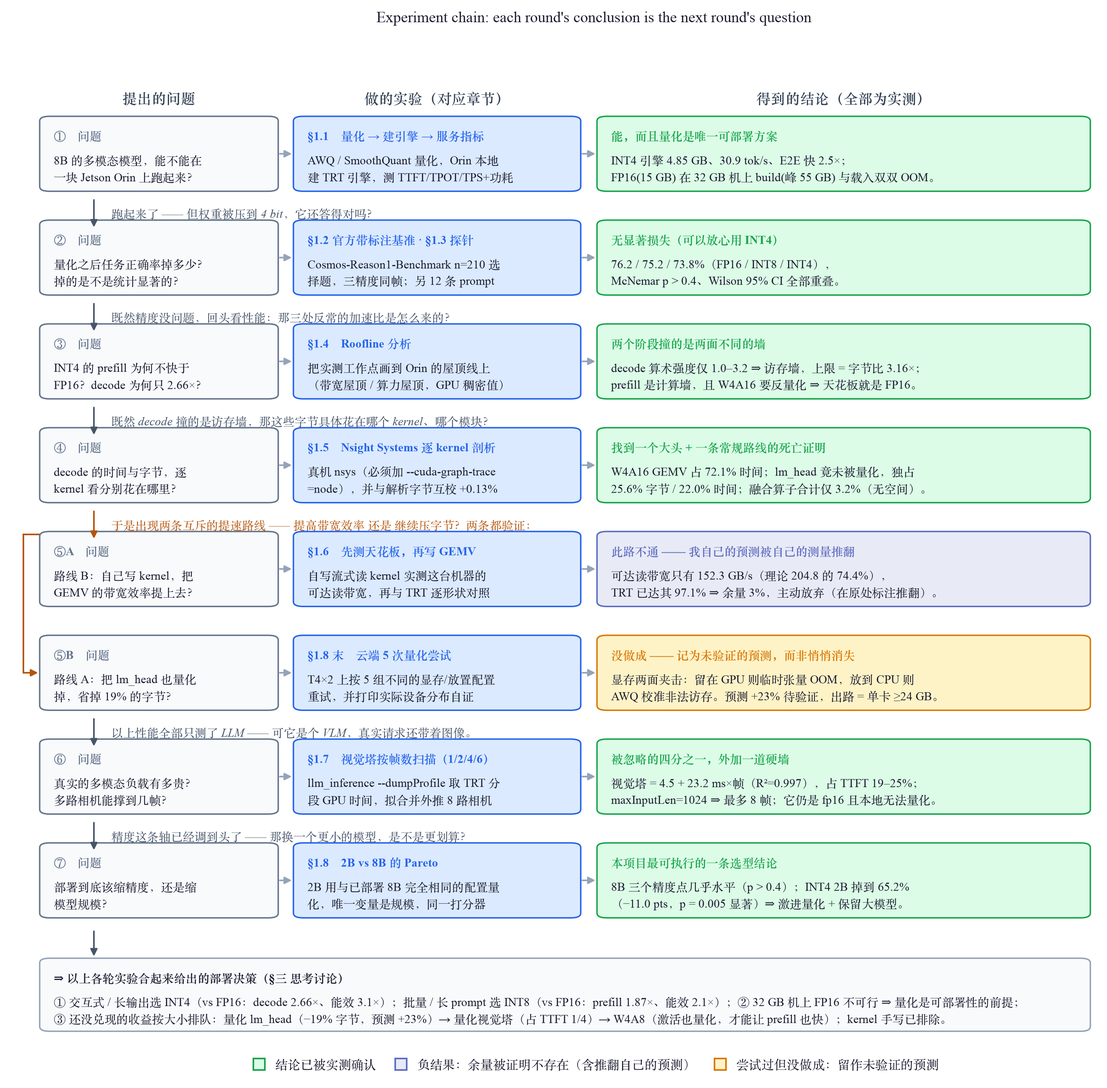
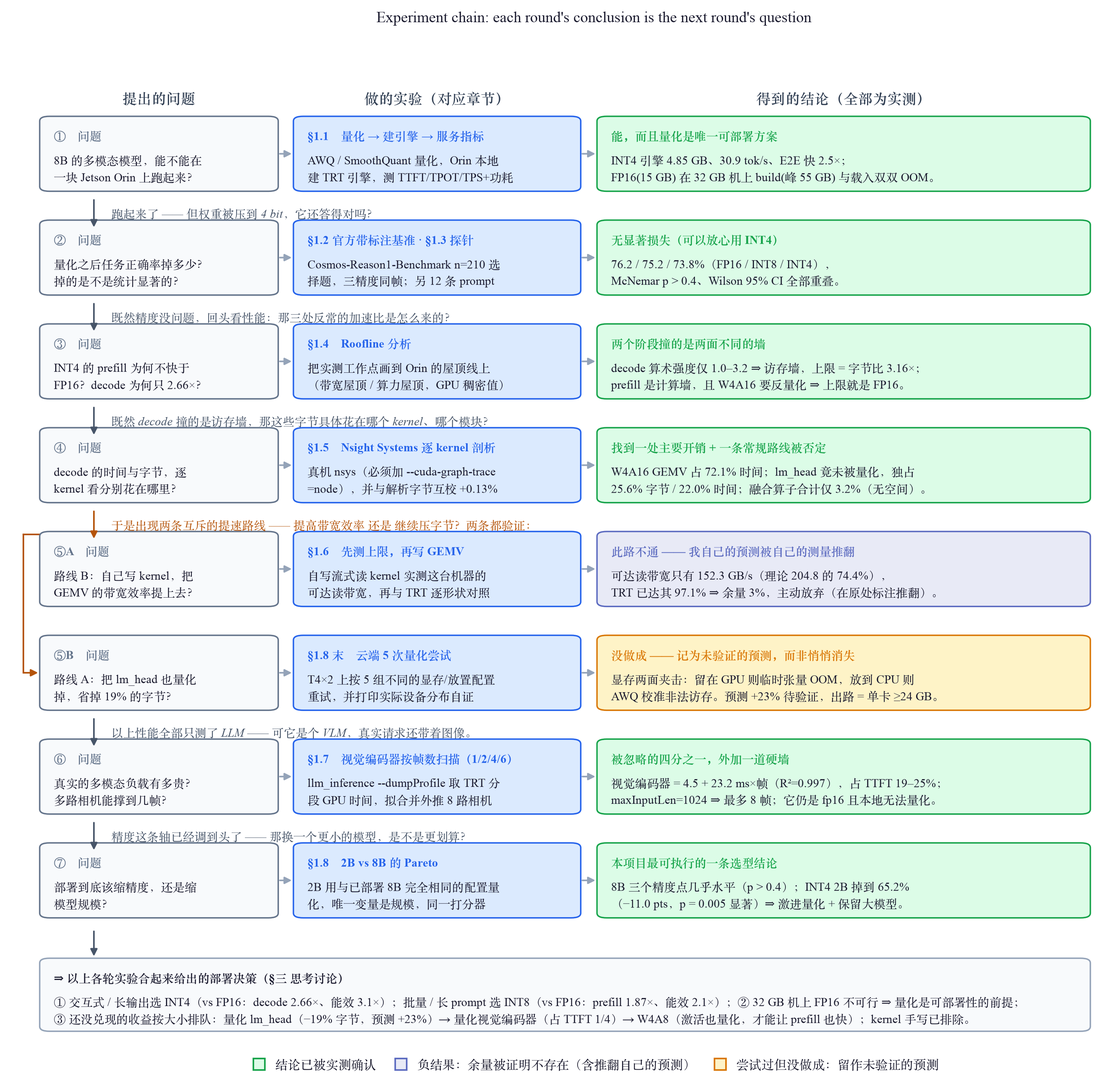
deploy: terminology pass (视觉编码器, 上限, 精度损失) + bilingual glossary

diff --git a/index.html b/index.html
@@ -97,7 +97,7 @@ footer a{color:var(--accent)}
   <figure><img src="figures/arch_upstream.png" alt="上游发布的 Cosmos-Reason2-8B 结构与我们部署形态的对应"><figcaption><b>图 1 · 上游发布的模型结构（左）与我们部署后的形态（右）—— 圈号一一对应</b><br><b>读法</b>：左栏 = <strong>Cosmos-Reason2-8B 按其作者的口径</strong>（NVIDIA 在 <strong>Qwen3-VL-8B-Instruct</strong> 上后训练）：视觉编码器 ViT（<code>qwen3_vl_vision</code>，27 层 · d=1152 · 16 头 · FFN 4304 · patch 16×16）→ 2×2 merge → 与文字 embedding 拼成一条序列 → 文本解码器（<code>qwen3_vl_text</code>，36 层 · d=4096 · GQA 32/8 · FFN 12288 · mRoPE [24,20,20]）→ lm_head；右栏 = 同一模型在 Orin 上被拆成的<strong>实际部件</strong>（主机侧前处理 / visual.engine / 运行时 kernel + 独立词嵌入权重 / llm.engine）<br><b>图例</b>：<span style="color:#2563eb"><strong>蓝 = 我们量化的部分</strong></span>；<span style="color:#d97706"><strong>琥珀 = 保持 fp16 的视觉部分</strong></span>；灰 = 主机侧 / 运行时（不在 TRT 引擎内）；<span style="color:#7c3aed"><strong>紫虚线 = DeepStack 多尺度视觉注入</strong></span>；①–⑥ 把两栏的同一模块系在一起<br><b>结果</b>：参数账自校验 <strong>0.58 B（视觉）+ 6.95 B（36 层）+ 0.62 B（词嵌入）+ 0.62 B（lm_head）= 8.77 B</strong>，与 NVIDIA 公布的 checkpoint 规模一致；部署造成三处结构差异：<strong>① 36×7 个线性层被量化</strong>（视觉编码器与 lm_head 仍 fp16）、<strong>② 词嵌入查表被搬出 TRT 图</strong>成为独立权重 + 一个 kernel、<strong>③ 引擎构建时把输入长度钉死在 1024</strong>（模型本身支持 262144）<br><b>分析</b>：这张图解释了两个最容易被误解的点。一是 <strong>DeepStack</strong>——视觉信息不只在序列开头进入模型，ViT 第 8/16/24 层的 3 路中间特征还会<strong>直接注入解码器前 3 层</strong>，所以视觉编码器不是"可插拔前端"，它与解码器是耦合的。二是<strong>"词嵌入不在 LLM 引擎内"的确切含义</strong>：不是没有词嵌入，而是查表被移出 TensorRT 图，变成运行时的一次 GPU gather（<code>embeddingLookupWithImageInsertion</code>）+ 一个 1.245 GB 的独立权重文件；<strong>llm.engine 的输入是拼好的向量 <code>inputsEmbeds</code>，不是 token id</strong>——正因如此才能把视觉向量写进文字 embedding 的空位。</figcaption></figure>
   <figure><img src="figures/preprocess_chain.png" alt="从 benchmark 视频到 image token 的预处理链与 prompt 长度预算"><figcaption><b>图 2 · 从视频到 image token：实测预处理链，与 prompt 长度对引擎硬上限的占用</b><br><b>上半（读法）</b>：六个步骤从左到右 = benchmark 视频 → <strong>我们</strong>均匀采 6 帧并把长边缩到 448 px → 实测出现两种帧尺寸 → <code>Qwen2VLImageProcessor</code> 把边长缩到 <strong>32 的整数倍</strong> → 归一化并切 16×16 patch → ViT 编码后 2×2 merge 成 token；<span style="color:#2563eb"><strong>蓝字 = 448×252 的 170 段</strong></span>，<span style="color:#f59e0b"><strong>橙字 = 448×358 的 40 段</strong></span><br><b>下半</b>：横轴 = 一次请求的 prompt 长度（token；深色 = 图像 token，浅灰 = 问题与对话模板），竖轴 = 三种实测情形，红虚线 = 引擎构建时钉死的 <code>maxInputLen = 1024</code><br><b>结果</b>：真正进入网络的<strong>不是 448×252，而是 448×256</strong>（28×16=448 个 patch → <strong>112 token/帧</strong>）；40 段 5:4 视频是 448×352（616 patch → <strong>154 token/帧</strong>）。规则是 <strong>token 数 =(W/32)×(H/32)</strong>，每 token 覆盖 32×32 px。实测 prompt 长度 <strong>759 / 951 / 1015</strong>，最长的一题（n=210 的第 94 题）<strong>距 1024 只剩 9 个 token</strong><br><b>分析</b>：<strong>这修正了此前"每帧 112 token ⇒ 最多 8 帧"的过度概括</strong>——112 只对 16:9 的帧成立，5:4 的帧是 154，<strong>6 帧就已经把引擎占到 99.1%</strong>，第 7 帧必然溢出。基准日志无截断告警、210 条全部返回，故已发布的正确率不受影响，但余量只有 0.9%，属于事后才发现的风险；要放更多帧必须用更大的 <code>maxInputLen</code> 重建引擎。另外注意口径：<strong>性能基准（§1.1、§1.4–1.6）一张图都不带</strong>，走的是纯文字路径，不经视觉编码器。</figcaption></figure>
   <figure><img src="figures/model_arch.png" alt="Cosmos-Reason2-8B 结构与各实验作用的模块"><figcaption><b>图 3 · 模型结构（实测 config）与每个实验作用的模块</b><br><b>左栏（读法）</b>：Cosmos-Reason2-8B 的真实结构，自上而下 = 两路输入 → 视觉编码器 ViT / 分词器+词嵌入 → 36 层 decoder → 输出层 lm_head → 采样回灌；框内为实测形状（36 层 · hidden 4096 · GQA 32/8 头 · FFN 12288 · vocab 151936）；紫虚线是 <strong>DeepStack</strong>（ViT 第 8/16/24 层的 3 路特征注入 decoder 前 3 层，见图 1），预处理与 token 数见图 2<br><b>右栏 A–F（图例）</b>：每个字母把一个模块连到"我们在哪一节对它做了什么、实测占多少"；填色含义 = <span style="color:#2563eb"><strong>蓝：本项目量化的模块</strong></span> / <span style="color:#d97706"><strong>琥珀：仍是 fp16，已定位的优化点</strong></span> / 灰：无权重或不在 LLM 引擎内<br><b>结果</b>：被量化的只有 decoder 里 36×7 个线性层 = <strong>6.95 B 参数（全部矩阵乘参数的 91.8%）</strong>，它们在 decode 占 <strong>72.1% 的时间</strong>；<strong>lm_head 只占 8.2% 的参数，却占 25.6% 的字节、22.0% 的时间，且完全未被量化</strong>；视觉编码器（≈0.58 B，fp16）占 TTFT 19–25%；RMSNorm / RoPE / SwiGLU 已被 TensorRT 融合，合计仅 3.2%<br><b>分析</b>：这张图回答"优化为什么只能往这两处去"。右下角的<strong>字节账</strong>是关键：decode 每生成 1 个 token 就要把整个引擎搬一遍，4.853 GB ÷ 实测 33.1 ms = 146.5 GB/s，<strong>已达这台机器可达带宽（152.3 GB/s）的 96%</strong> ⇒ 搬运效率已无余量，剩下的收益只能来自"<strong>让要搬的字节变少</strong>"，即图中两块琥珀色（lm_head、视觉编码器），而不是重写 kernel（§1.6 已实测证否）。</figcaption></figure>
-  <figure><img src="figures/experiment_logic.png" alt="实验之间的逻辑链：上一轮结论 → 下一轮问题"><figcaption><b>图 4 · 实验逻辑链：每一轮的结论就是下一轮的问题</b><br><b>读法</b>：一行 = 一轮实验，左→右 = <strong>提出的问题 → 做的实验（对应章节）→ 实测结论</strong>；两行之间的<strong>斜体字</strong>是这条链的关键——上一轮的结论具体逼出了什么新问题<br><b>图例</b>：<span style="color:#16a34a"><strong>绿 = 结论已被实测确认</strong></span>；<span style="color:#5c6bc0"><strong>蓝紫 = 负结果（余量被证明不存在）</strong></span>；<span style="color:#d97706"><strong>琥珀 = 尝试过但没做成，留作未验证的预测</strong></span>；⑤A / ⑤B 是同一处发现分出的<strong>两条互斥路线</strong>，故并列<br><b>结果</b>：七轮串成一条链——能不能跑(§1.1) → 压了还准不准(§1.2–1.3) → 加速比为何是这个数(§1.4) → 字节花在哪个 kernel(§1.5) → 两条提速路线各自的下场(§1.6 / lm_head) → 真实多模态负载多贵(§1.7) → 该缩精度还是缩模型(§1.8)，最后合成一条部署决策<br><b>分析</b>：链条里有两次转向完全是被数据逼出来的：§1.4 判定 decode 撞的是<strong>访存墙</strong>，才使 §1.5 的逐 kernel 字节归因成为必做项；而 §1.5 量出 GEMV 只有理论峰值带宽的 72%，我据此预测手写 kernel 能 +10%——§1.6 先测出真实天花板后，<strong>这个预测被我自己的测量推翻，并保留在原处</strong>。也正因为 kernel 这条路被关掉，两个尚未兑现的收益（量化 lm_head、量化视觉编码器）才有了明确的优先级。</figcaption></figure>
+  <figure><img src="figures/experiment_logic.png" alt="实验之间的逻辑链：上一轮结论 → 下一轮问题"><figcaption><b>图 4 · 实验逻辑链：每一轮的结论就是下一轮的问题</b><br><b>读法</b>：一行 = 一轮实验，左→右 = <strong>提出的问题 → 做的实验（对应章节）→ 实测结论</strong>；两行之间的<strong>斜体字</strong>是这条链的关键——上一轮的结论具体逼出了什么新问题<br><b>图例</b>：<span style="color:#16a34a"><strong>绿 = 结论已被实测确认</strong></span>；<span style="color:#5c6bc0"><strong>蓝紫 = 负结果（余量被证明不存在）</strong></span>；<span style="color:#d97706"><strong>琥珀 = 尝试过但没做成，留作未验证的预测</strong></span>；⑤A / ⑤B 是同一处发现分出的<strong>两条互斥路线</strong>，故并列<br><b>结果</b>：七轮串成一条链——能不能跑(§1.1) → 压了还准不准(§1.2–1.3) → 加速比为何是这个数(§1.4) → 字节花在哪个 kernel(§1.5) → 两条提速路线各自的下场(§1.6 / lm_head) → 真实多模态负载多贵(§1.7) → 该缩精度还是缩模型(§1.8)，最后合成一条部署决策<br><b>分析</b>：链条里有两次转向完全是被数据逼出来的：§1.4 判定 decode 撞的是<strong>访存墙</strong>，才使 §1.5 的逐 kernel 字节归因成为必做项；而 §1.5 量出 GEMV 只有理论峰值带宽的 72%，我据此预测手写 kernel 能 +10%——§1.6 先测出真实上限后，<strong>这个预测被我自己的测量推翻，并保留在原处</strong>。也正因为 kernel 这条路被关掉，两个尚未兑现的收益（量化 lm_head、量化视觉编码器）才有了明确的优先级。</figcaption></figure>
 
   <h2>一、核心结果</h2>
   <p style="font-size:13px;color:var(--muted);margin-top:-2px">📊 图表可<strong class="zoom" style="color:var(--accent)">点击放大</strong>（再点任意处或按 Esc 还原）。不熟悉指标可先展开下面的说明，或见「方法细节」。</p>
@@ -115,6 +115,11 @@ footer a{color:var(--accent)}
       <tr><td>perplexity 困惑度</td><td>模型对一段文本的"意外程度"，越低=越符合模型预期。这里用 FP16 原模型给量化输出打分，<strong>增幅越小 = 量化越保真</strong>。</td></tr>
       <tr><td>一致前缀</td><td>贪心解码下，量化输出与 FP16 输出逐 token 相同的最长开头长度。</td></tr>
       <tr><td>W4A16 / W8A8</td><td>量化位宽记法：权重 4bit·激活 16bit（AWQ）／ 权重 8bit·激活 8bit（SmoothQuant）。</td></tr>
+      <tr><td>视觉编码器（ViT）</td><td>Vision encoder。多模态模型里把图像编码成 token 的那一半（本模型 <code>qwen3_vl_vision</code>，27 层）。LLaVA 系代码常称 <i>vision tower</i>，本文统一用"视觉编码器"，不用直译"视觉塔"。</td></tr>
+      <tr><td>DeepStack</td><td>Qwen3-VL 的多尺度视觉注入：视觉编码器第 8/16/24 层的中间特征直接注入文本解码器前 3 层（见图 1）。</td></tr>
+      <tr><td>算术强度 AI</td><td>Arithmetic intensity = 每字节数据能做多少次运算（FLOP/byte）。它决定一个阶段是被算力还是被带宽卡住（见图 12）。</td></tr>
+      <tr><td>理论峰值 vs 可达上限</td><td>前者是规格书数字（本机 DRAM 204.8 GB/s），后者是这台机器实测真能跑到的（152.3 GB/s）。<strong>算优化余量必须用后者</strong>——用前者会高估（§1.6）。</td></tr>
+      <tr><td>精度损失（pts）</td><td>正确率的百分点差（业内口语称"掉点"）。本文统一写"精度损失"，并区分它与 perplexity 的<strong>上升</strong>。</td></tr>
       <tr><td>MAXN · sm_87</td><td>MAXN = Orin 最高性能功耗模式；sm_87 = Orin GPU 的 CUDA 架构代号（Ampere）。</td></tr>
     </table>
   </details>
@@ -151,7 +156,7 @@ footer a{color:var(--accent)}
   </ul>
 
   <h3>1.2 精度：真实基准任务正确率（vs FP16）</h3>
-  <p>在<strong>官方 <a href="https://huggingface.co/datasets/nvidia/Cosmos-Reason1-Benchmark" target="_blank" style="color:var(--accent)">Cosmos-Reason1-Benchmark</a>（robovqa 子集，110 道选择题带标准答案）</strong>上实测<strong>任务正确率</strong>——具体场景 + ground truth，效果指标有实际意义。视频按 6 帧（≤448px）采样作多图，FP16/INT8/INT4 用同一批帧，掉点严格可比。</p>
+  <p>在<strong>官方 <a href="https://huggingface.co/datasets/nvidia/Cosmos-Reason1-Benchmark" target="_blank" style="color:var(--accent)">Cosmos-Reason1-Benchmark</a>（robovqa 子集，110 道选择题带标准答案）</strong>上实测<strong>任务正确率</strong>——具体场景 + ground truth，效果指标有实际意义。视频按 6 帧（≤448px）采样作多图，FP16/INT8/INT4 用同一批帧，精度损失严格可比。</p>
   <figure><img src="figures/benchmark_accuracy.png" alt="benchmark task accuracy"><figcaption><b>图 10 · 基准任务正确率（Cosmos-Reason1-Benchmark）</b><br><b>横轴</b>：三种精度（FP16 参考 / INT8 / INT4）<br><b>竖轴</b>：多选题任务正确率 %（误差棒=Wilson 95% 置信区间，绿虚线=FP16 76.2%）<br><b>结果</b>：n=210（robovqa 88.2% + 更难的 robofail 63%）FP16 76.2%、INT8 75.2%、INT4 73.8%；三者 <strong>CI 重叠、McNemar p&gt;0.4 → 差异统计不显著</strong><br><b>分析</b>：即使扩到 210、加入更难子集，量化仍<strong>无显著任务正确率损失</strong>，且分辨不出 INT4/INT8。二选一 MC 使 CI 仍 ±5.7；要更细分辨需上千样本或更难多选题（其余子集需外部视频，见边界）</figcaption></figure>
   <table>
     <caption><strong>表 3</strong>　各基准子集任务正确率与统计检验（n = 210，误差以 Wilson 95% CI、显著性以 McNemar 检验）。</caption>
@@ -164,7 +169,7 @@ footer a{color:var(--accent)}
 
   <h3>1.3 精度（辅助）：细粒度 perplexity 探针</h3>
   <p style="font-size:13.5px;color:var(--muted)">补充一个更细粒度的相对指标：12 条驾驶/推理 prompt 上，用 FP16 模型对量化输出做 teacher-forced perplexity（比 MC 正确率更敏感，能区分 INT4/INT8）。</p>
-  <figure><img src="figures/accuracy_dropoff.png" alt="quantization drop-off vs FP16"><figcaption><b>图 11 · 相对 FP16 的 perplexity 掉点与一致前缀</b><br><b>横轴</b>：左=平均 perplexity 指标，右=与 FP16 的一致性(一致前缀占比 % / 一致前缀长度 token)<br><b>竖轴</b>：左=perplexity(越低越贴近 FP16，绿虚线为 FP16 基线 1.237)，右=百分比 / token 数<br><b>结果</b>：INT4(AWQ) 掉点 +9.8% 显著小于 INT8(SmoothQuant) +18.1%，且贪心路径跟随 FP16 更久<br><b>分析</b>：INT4(W4A16 纯权重、激活保 16bit)对校准质量更鲁棒；INT8(W8A8)连激活也量化更敏感 → 掉点更大（校准集消融见"思考讨论"：域内小集反而更差，覆盖度比域匹配更关键）</figcaption></figure>
+  <figure><img src="figures/accuracy_dropoff.png" alt="quantization drop-off vs FP16"><figcaption><b>图 11 · 相对 FP16 的 perplexity 增幅与一致前缀</b><br><b>横轴</b>：左=平均 perplexity 指标，右=与 FP16 的一致性(一致前缀占比 % / 一致前缀长度 token)<br><b>竖轴</b>：左=perplexity(越低越贴近 FP16，绿虚线为 FP16 基线 1.237)，右=百分比 / token 数<br><b>结果</b>：INT4(AWQ) 精度损失 +9.8% 显著小于 INT8(SmoothQuant) +18.1%，且贪心路径跟随 FP16 更久<br><b>分析</b>：INT4(W4A16 纯权重、激活保 16bit)对校准质量更鲁棒；INT8(W8A8)连激活也量化更敏感 → 精度损失更大（校准集消融见"思考讨论"：域内小集反而更差，覆盖度比域匹配更关键）</figcaption></figure>
   <table>
     <caption><strong>表 4</strong>　各精度 perplexity 与相对 FP16 的一致前缀（12 条 prompt，teacher-forced，相对口径）。</caption>
     <tr><th>指标</th><th>FP16 参考</th><th>INT4 (AWQ)</th><th>INT8 (SmoothQuant)</th></tr>
@@ -175,10 +180,10 @@ footer a{color:var(--accent)}
 
   <h3>1.4 Roofline 分析：三个"反常点"的机理</h3>
   <p>把实测工作点画到 Orin 的 roofline 上，前面三处反常（INT4 prefill 不快于 FP16、INT8 prefill 快 1.87×、INT4 decode 只快 2.66× 而非 3.16×）就都有了定量解释，而非事后叙述。</p>
-  <figure><img src="figures/roofline.png" alt="roofline analysis"><figcaption><b>图 12 · Orin roofline 与实测工作点</b><br><b>横轴</b>：算术强度 AI（每字节的 FLOP/OP 数，对数轴）<br><b>竖轴</b>：可达吞吐（TFLOP/s 或 TOP/s，对数轴）；斜线=带宽屋顶（实线 204.8 GB/s 峰值、点线 150 GB/s 可达），平顶=算力屋顶（INT8 85 TOP/s、FP16 43 TFLOP/s，均为 GPU 稠密值）<br><b>结果</b>：decode 三精度 AI 仅 1.0–3.2，全部贴在带宽斜坡上，实测带宽 <strong>143–170 GB/s = 峰值的 70–83%</strong>；prefill 三精度 AI 512–1616，全部落在各自算力平顶下方 <strong>57–61%</strong>，且 <strong>INT4 贴的是 FP16 顶（25.5 vs FP16 26.0 TFLOP/s）而不是 INT8 顶</strong><br><b>分析</b>：脊点 = 43 TFLOP/s ÷ 204.8 GB/s ≈ <strong>210 FLOP/byte</strong>。decode 的 AI 比脊点低 67–210×⇒ 纯访存墙，故 <strong>INT4 decode 的加速上限就是字节比 15.15/4.8 = 3.16×</strong>，实测 2.66× 的缺口来自带宽效率随权重变小而下降（82.9%→69.7%，固定开销占比上升）。prefill 的 AI 远高于脊点 ⇒ 计算墙：<strong>W4A16 的天花板是 FP16 的 43 TFLOP/s 而非 INT8 的 85 TOP/s</strong>——TensorRT 权重量化会把 INT4 权重<strong>先反量化再做高精度点积</strong>（官方文档明示），所以 INT4 prefill 结构上不可能快过 FP16；INT8(W8A8) 用原生 int8 张量核、天花板翻倍，才有 1.87×。</figcaption></figure>
+  <figure><img src="figures/roofline.png" alt="roofline analysis"><figcaption><b>图 12 · Orin roofline 与实测工作点</b><br><b>横轴</b>：算术强度 AI（每字节的 FLOP/OP 数，对数轴）<br><b>竖轴</b>：可达吞吐（TFLOP/s 或 TOP/s，对数轴）；斜线=带宽屋顶（实线 204.8 GB/s 峰值、点线 150 GB/s 可达），平顶=算力屋顶（INT8 85 TOP/s、FP16 43 TFLOP/s，均为 GPU 稠密值）<br><b>结果</b>：decode 三精度 AI 仅 1.0–3.2，全部贴在带宽斜坡上，实测带宽 <strong>143–170 GB/s = 峰值的 70–83%</strong>；prefill 三精度 AI 512–1616，全部落在各自算力平顶下方 <strong>57–61%</strong>，且 <strong>INT4 贴的是 FP16 顶（25.5 vs FP16 26.0 TFLOP/s）而不是 INT8 顶</strong><br><b>分析</b>：脊点 = 43 TFLOP/s ÷ 204.8 GB/s ≈ <strong>210 FLOP/byte</strong>。decode 的 AI 比脊点低 67–210×⇒ 纯访存墙，故 <strong>INT4 decode 的加速上限就是字节比 15.15/4.8 = 3.16×</strong>，实测 2.66× 的缺口来自带宽效率随权重变小而下降（82.9%→69.7%，固定开销占比上升）。prefill 的 AI 远高于脊点 ⇒ 计算墙：<strong>W4A16 的上限是 FP16 的 43 TFLOP/s 而非 INT8 的 85 TOP/s</strong>——TensorRT 权重量化会把 INT4 权重<strong>先反量化再做高精度点积</strong>（官方文档明示），所以 INT4 prefill 结构上不可能快过 FP16；INT8(W8A8) 用原生 int8 张量核、上限翻倍，才有 1.87×。</figcaption></figure>
   <table>
-    <caption><strong>表 5</strong>　Roofline 量化核对（orin-goat，MAXN，batch = 1）。AI 与可达吞吐均由实测延迟 / 实测引擎字节数推出；算力天花板取 GPU <strong>稠密</strong>峰值（FP16 43 TFLOP/s、INT8 85 TOP/s），<strong>不含 DLA</strong>——NVIDIA 宣传的 275 TOPS 是 GPU 稀疏 170 + 双 DLA 稀疏 105，GPU-only 稠密口径仅为其 31%。</caption>
-    <tr><th>精度</th><th>Decode AI<br><span style="font-weight:400;font-size:12px">FLOP/byte</span></th><th>Decode 实测带宽<br><span style="font-weight:400;font-size:12px">（占 204.8 GB/s 峰值）</span></th><th>Prefill AI<br><span style="font-weight:400;font-size:12px">FLOP/byte</span></th><th>Prefill 实测吞吐<br><span style="font-weight:400;font-size:12px">（占所用天花板）</span></th><th>所用算力天花板</th></tr>
+    <caption><strong>表 5</strong>　Roofline 量化核对（orin-goat，MAXN，batch = 1）。AI 与可达吞吐均由实测延迟 / 实测引擎字节数推出；算力上限取 GPU <strong>稠密</strong>峰值（FP16 43 TFLOP/s、INT8 85 TOP/s），<strong>不含 DLA</strong>——NVIDIA 宣传的 275 TOPS 是 GPU 稀疏 170 + 双 DLA 稀疏 105，GPU-only 稠密口径仅为其 31%。</caption>
+    <tr><th>精度</th><th>Decode AI<br><span style="font-weight:400;font-size:12px">FLOP/byte</span></th><th>Decode 实测带宽<br><span style="font-weight:400;font-size:12px">（占 204.8 GB/s 峰值）</span></th><th>Prefill AI<br><span style="font-weight:400;font-size:12px">FLOP/byte</span></th><th>Prefill 实测吞吐<br><span style="font-weight:400;font-size:12px">（占所用上限）</span></th><th>所用算力上限</th></tr>
     <tr><td>FP16</td><td>1.00</td><td>169.7 GB/s（<strong>82.9%</strong>）</td><td>512</td><td>26.0 TFLOP/s（60.5%）</td><td>43 TFLOP/s (FP16)</td></tr>
     <tr><td>INT8 (SmoothQuant)</td><td>1.83</td><td>158.3 GB/s（77.3%）</td><td>935</td><td>48.7 TOP/s（57.3%）</td><td class="win">85 TOP/s (INT8 原生)</td></tr>
     <tr><td>INT4 (AWQ)</td><td class="win">3.16</td><td>142.8 GB/s（69.7%）</td><td>1616</td><td>25.5 TFLOP/s（59.2%）</td><td>43 TFLOP/s (<strong>反量化回 FP16</strong>)</td></tr>
@@ -193,27 +198,27 @@ footer a{color:var(--accent)}
 
   <h3>1.5 Kernel 级剖析：decode 的时间与字节都花在哪</h3>
   <p>Roofline 说 decode 是访存墙、且只跑到峰值带宽的 ~70%。那 30% 的缺口具体丢在哪个 kernel？用 Nsight Systems 在真机上逐 kernel 剖析（<strong>关键：必须加 <code>--cuda-graph-trace=node</code></strong>，否则 20 次计时迭代都在已捕获的 CUDA graph 里被折叠成一个区间，只有 3 次慢速 warmup 会被归因，得到的份额是错的）。</p>
-  <figure><img src="figures/kernel_breakdown.png" alt="kernel-level decode breakdown"><figcaption><b>图 13 · Kernel 级 decode 分解（时间与字节）</b><br><b>横轴</b>：左=每生成 token 的耗时(ms)，右=每 token 需搬运的引擎字节(GB)<br><b>竖轴</b>：左=kernel 类别，右=引擎权重按角色分类<br><b>结果</b>：<strong>W4A16 GEMV 占 72.1%</strong>(24.39 ms)、<strong>lm_head 的 fp16 GEMM 占 22.0%</strong>(7.46 ms)、attention 仅 2.7%、已融合的 elementwise 仅 3.2%；四项合计 33.8 ms ≈ 实测 TPOT 33.1 ms。字节侧：INT4 权重 3.473 GB(71.6%)、AWQ scales+zeros 0.136 GB、<strong>lm_head 仍是 fp16 未量化，占 1.245 GB = 25.6%</strong>；合计 4.853 GB 与实测引擎文件 4.847 GB 仅差 <strong>+0.13%</strong><br><b>分析</b>：三点可执行结论。① <strong>lm_head 根本没被量化</strong>——AWQ 默认跳过输出层，于是它独占四分之一的 decode 字节；而且 M=1 却被调度到 <code>tilesize64x96</code> 的 GEMM kernel（grid=(1,1583,1)，1583×96=151968≈vocab 151936，据此确认其身份）。② 各 kernel 实测有效带宽：GEMV <strong>147.9 GB/s(峰值 72.2%)</strong>、lm_head <strong>166.9 GB/s(81.5%)</strong>、整体 146.5 GB/s(71.5%)——<strong>效率最低的恰是最大头的 GEMV</strong>，这就是手写 kernel 的目标空间。③ <strong>TRT 已经把 RMSNorm/RoPE/SwiGLU 融合掉了</strong>（kernel 名 <code>__myl_AddCasMulMeaAddSqrDivMulCasMulMulMul</code> 即融合链）且 CUDA graph 已启用，故"算子融合 + 降 launch 开销"这条常规优化路线在此<strong>几乎没有空间</strong>（合计仅 3.2%）——这是个诚实的负结果。</figcaption></figure>
+  <figure><img src="figures/kernel_breakdown.png" alt="kernel-level decode breakdown"><figcaption><b>图 13 · Kernel 级 decode 分解（时间与字节）</b><br><b>横轴</b>：左=每生成 token 的耗时(ms)，右=每 token 需搬运的引擎字节(GB)<br><b>竖轴</b>：左=kernel 类别，右=引擎权重按角色分类<br><b>结果</b>：<strong>W4A16 GEMV 占 72.1%</strong>(24.39 ms)、<strong>lm_head 的 fp16 GEMM 占 22.0%</strong>(7.46 ms)、attention 仅 2.7%、已融合的 elementwise 仅 3.2%；四项合计 33.8 ms ≈ 实测 TPOT 33.1 ms。字节侧：INT4 权重 3.473 GB(71.6%)、AWQ scales+zeros 0.136 GB、<strong>lm_head 仍是 fp16 未量化，占 1.245 GB = 25.6%</strong>；合计 4.853 GB 与实测引擎文件 4.847 GB 仅差 <strong>+0.13%</strong><br><b>分析</b>：三点可执行结论。① <strong>lm_head 根本没被量化</strong>——AWQ 默认跳过输出层，于是它独占四分之一的 decode 字节；而且 M=1 却被调度到 <code>tilesize64x96</code> 的 GEMM kernel（grid=(1,1583,1)，1583×96=151968≈vocab 151936，据此确认其身份）。② 各 kernel 实测有效带宽：GEMV <strong>147.9 GB/s(峰值 72.2%)</strong>、lm_head <strong>166.9 GB/s(81.5%)</strong>、整体 146.5 GB/s(71.5%)——<strong>效率最低的恰是占比最大的 GEMV</strong>，这就是手写 kernel 的目标空间。③ <strong>TRT 已经把 RMSNorm/RoPE/SwiGLU 融合掉了</strong>（kernel 名 <code>__myl_AddCasMulMeaAddSqrDivMulCasMulMulMul</code> 即融合链）且 CUDA graph 已启用，故"算子融合 + 降 launch 开销"这条常规优化路线在此<strong>几乎没有空间</strong>（合计仅 3.2%）——这是个诚实的负结果。</figcaption></figure>
   <table>
     <caption><strong>表 6</strong>　由 kernel 剖析推出的两条优化余量（预测值，<strong>尚未实施</strong>）。字节数由实测 config 解析、并与引擎文件大小自校验到 +0.13%；有效带宽 = 解析字节 ÷ 实测 kernel 耗时（Nsight Compute 硬件计数器需 root，本机 sudo 无密码 → 不可用，故用此推算口径）。</caption>
     <tr><th>优化项</th><th>机理</th><th>字节变化</th><th>预测 TPOT / 吞吐</th><th>代价 / 风险</th></tr>
-    <tr><td><strong>A. 把 lm_head 也量化到 INT4</strong></td><td>消掉 1.245 GB 的 fp16 输出层，decode 是访存墙 ⇒ 时间近似按字节等比下降</td><td>4.853 → <strong>3.932 GB</strong>（−19%）</td><td class="win">33.1 → ≈26.8 ms<br>30.2 → <strong>≈37.3 tok/s（+23%）</strong></td><td>输出层对量化更敏感，需用 n=210 基准实测掉点</td></tr>
+    <tr><td><strong>A. 把 lm_head 也量化到 INT4</strong></td><td>消掉 1.245 GB 的 fp16 输出层，decode 是访存墙 ⇒ 时间近似按字节等比下降</td><td>4.853 → <strong>3.932 GB</strong>（−19%）</td><td class="win">33.1 → ≈26.8 ms<br>30.2 → <strong>≈37.3 tok/s（+23%）</strong></td><td>输出层对量化更敏感，需用 n=210 基准实测精度损失</td></tr>
     <tr><td>B. 手写 W4A16 GEMV 提升带宽效率<br><span style="font-size:12px;color:var(--err)"><strong>← 已被 1.6 节实测推翻</strong></span></td><td>本以为 GEMV 只到「峰值」72.2% 尚有余量；但 <strong>该口径错了</strong>——分母应为实测可达带宽 152.3 GB/s，TRT 已达其 <strong>97.1%</strong></td><td>不变</td><td><span style="color:var(--err)">原预测 +10% 不成立</span><br>真实上限 ≈ <strong>+2%</strong> 端到端</td><td>见 1.6 节：此路基本不通</td></tr>
     <tr><td>A + B 叠加</td><td>B 已被推翻 ⇒ 实际可期的就是 A</td><td>−19%</td><td class="win">≈26.8 ms（<strong>+23%</strong>，来自 A）</td><td>—</td></tr>
   </table>
 
-  <h3>1.6 手写 kernel 对照：先量"天花板"，再决定要不要优化</h3>
+  <h3>1.6 手写 kernel 对照：先量"上限"，再决定要不要优化</h3>
   <p>1.5 节给出的 B 项优化（手写 GEMV 把带宽效率从 72.2% 提上去）听起来诱人。但在动手写之前必须先回答一个问题：<strong>这台机器的 DRAM 到底能给多少带宽？</strong>「占理论峰值 72%」只有在硬件真能跑到 100% 时才意味着有 28% 可捞。于是先用自己写的纯流式读 kernel（1 GB、128-bit load）实测可达上限，再写三个版本的 W4A16 GEMV 与 TRT 对照。</p>
-  <figure><img src="figures/gemv_kernel_bench.png" alt="hand-written W4A16 GEMV vs TensorRT"><figcaption><b>图 14 · 手写 W4A16 GEMV 与 TRT 及真实带宽天花板对照</b><br><b>横轴</b>：四种真实投影形状（K×N，取自 Cosmos-Reason2-8B 的 q/k/v/o 与 gate/up/down）<br><b>竖轴</b>：实测有效带宽 (GB/s)；点线=理论峰值 204.8、<span style="color:#16a34a">绿实线=实测可达读带宽 152.3</span>、<span style="color:var(--err)">红虚线=TRT 的 147.9</span><br><b>结果</b>：<strong>这台 Orin 的实测可达读带宽只有 152.3 GB/s（理论峰值的 74.4%）</strong>，两次运行 151.7 / 152.3（差 0.4%），并与 NVIDIA 论坛社区实测的 151.7 GB/s D2D 独立吻合。<strong>据此 TRT 的 GEMV 达到可达带宽的 97.1%</strong>。我最好的手写版本（v4：x 进 shared memory + half2 融合乘加）只有 79.2 GB/s = 可达的 52.0%，<strong>比 TRT 慢 1.87×</strong><br><b>分析</b>：① <strong>我上一节的 B 项优化被自己的测量推翻</strong>——正确的分母是可达带宽而非理论峰值，TRT 的 GEMV 只剩 <strong>3.0% 余量，端到端约 +2%</strong>，手写 kernel 这条路基本不通。② 版本间的教训很典型：v2/v3 单纯把 32-bit load 换成 128-bit 反而<strong>更慢</strong>，因为真正的瓶颈不是 DRAM 而是<strong>逐元素重复读 x + 标量 int→fp16 转换</strong>；v4 把 x 放进 shared memory（一个 block 内 8 个 warp 复用）并改用 half2 后才提升 1.4–4×。③ 要再补上与 TRT 的 1.87× 差距，还需 AWQ/FasterTransformer 的 <code>lop3</code> 位技巧（直接拼出 fp16 尾数、免掉转换指令）+ 权重离线置换——而 TRT 已经做了这些。④ <strong>真正的结论：decode 的优化杠杆不在 kernel，而在字节数</strong>（即 A 项：量化 lm_head）。</figcaption></figure>
+  <figure><img src="figures/gemv_kernel_bench.png" alt="hand-written W4A16 GEMV vs TensorRT"><figcaption><b>图 14 · 手写 W4A16 GEMV 与 TRT 及真实带宽上限对照</b><br><b>横轴</b>：四种真实投影形状（K×N，取自 Cosmos-Reason2-8B 的 q/k/v/o 与 gate/up/down）<br><b>竖轴</b>：实测有效带宽 (GB/s)；点线=理论峰值 204.8、<span style="color:#16a34a">绿实线=实测可达读带宽 152.3</span>、<span style="color:var(--err)">红虚线=TRT 的 147.9</span><br><b>结果</b>：<strong>这台 Orin 的实测可达读带宽只有 152.3 GB/s（理论峰值的 74.4%）</strong>，两次运行 151.7 / 152.3（差 0.4%），并与 NVIDIA 论坛社区实测的 151.7 GB/s D2D 独立吻合。<strong>据此 TRT 的 GEMV 达到可达带宽的 97.1%</strong>。我最好的手写版本（v4：x 进 shared memory + half2 融合乘加）只有 79.2 GB/s = 可达的 52.0%，<strong>比 TRT 慢 1.87×</strong><br><b>分析</b>：① <strong>我上一节的 B 项优化被自己的测量推翻</strong>——正确的分母是可达带宽而非理论峰值，TRT 的 GEMV 只剩 <strong>3.0% 余量，端到端约 +2%</strong>，手写 kernel 这条路基本不通。② 版本间的教训很典型：v2/v3 单纯把 32-bit load 换成 128-bit 反而<strong>更慢</strong>，因为真正的瓶颈不是 DRAM 而是<strong>逐元素重复读 x + 标量 int→fp16 转换</strong>；v4 把 x 放进 shared memory（一个 block 内 8 个 warp 复用）并改用 half2 后才提升 1.4–4×。③ 要再补上与 TRT 的 1.87× 差距，还需 AWQ/FasterTransformer 的 <code>lop3</code> 位技巧（直接拼出 fp16 尾数、免掉转换指令）+ 权重离线置换——而 TRT 已经做了这些。④ <strong>真正的结论：decode 的优化杠杆不在 kernel，而在字节数</strong>（即 A 项：量化 lm_head）。</figcaption></figure>
   <div class="callout warn">
     <div class="t">方法论：这一节的价值在于"没做成"</div>
-    如果只对着理论峰值 204.8 GB/s 看，会得出"kernel 有 28% 可优化"的错误结论并白写几天代码。<strong>先花半小时测出真实天花板 152.3 GB/s，就知道 TRT 已经到 97%、该停手</strong>。工程判断力的一部分是知道哪里<strong>不值得</strong>优化——附带也验证了：现成推理框架的核心 kernel 通常已被调到接近硬件极限，收益要从<strong>算法/数据表示</strong>（量化位宽、KV cache、稀疏）而非手写 kernel 里找。<br>
+    如果只对着理论峰值 204.8 GB/s 看，会得出"kernel 有 28% 可优化"的错误结论并白写几天代码。<strong>先花半小时测出真实上限 152.3 GB/s，就知道 TRT 已经到 97%、该停手</strong>。工程判断力的一部分是知道哪里<strong>不值得</strong>优化——附带也验证了：现成推理框架的核心 kernel 通常已被调到接近硬件极限，收益要从<strong>算法/数据表示</strong>（量化位宽、KV cache、稀疏）而非手写 kernel 里找。<br>
     <span style="color:var(--muted)">诚实标注：v4 用 half2 累加，相对误差 0.1–0.7%（v1 用 float 累加为 0.04%）；若要产品化需改回 float 累加，会再损失一点速度。此微基准为独立 kernel、非端到端集成。</span>
   </div>
 
   <h3>1.7 视觉编码器：多模态才是真实负载，它占 TTFT 的 1/4</h3>
   <p>前面所有性能数字都只测了 LLM。但这是个 <strong>VLM</strong>，真实请求是"若干帧图像 + 问题"，而<strong>视觉编码器从未被单独测量、且至今仍是未量化的 fp16</strong>（1.168 GB 引擎）。用 <code>llm_inference --dumpProfile</code> 拿到 TRT 自带的分段 GPU 时间，按帧数扫描（AV 场景对应多路相机）。</p>
-  <figure><img src="figures/vision_tower.png" alt="vision tower cost and multi-camera scaling"><figcaption><b>图 15 · 视觉编码器开销与多相机扩展性</b><br><b>横轴</b>：左=输入帧数(1/2/4/6)，右=输入帧数（视作每路相机 1 帧，含外推到 8 路）<br><b>竖轴</b>：左=首 token 延迟 TTFT (ms)，按「视觉编码器 / LLM prefill」堆叠；右=视觉编码器 GPU 时间 (ms)，红虚线=引擎 <code>maxInputLen=1024</code> 的硬墙<br><b>结果</b>：视觉编码器耗时随帧数<strong>严格线性</strong>——拟合 <strong>4.5 + 23.2 ms×帧</strong>（R²=0.997），每帧 112 个 image token（本节用的 448×252 帧被 processor 缩到 448×256，14×8=112；见图 2）；它占 TTFT 的 <strong>19.3% → 24.7%</strong>（1→6 帧）。6 帧 TTFT 593 ms（视觉 146 + prefill 446）。外推 8 路相机：视觉 ≈190 ms、TTFT ≈775 ms<br><b>分析</b>：① <strong>视觉编码器是被忽略的四分之一</strong>，且是唯一仍跑 fp16 的部件——量化它是明确的下一步收益点。② <strong>发现一个硬约束，且它取决于帧的长宽比</strong>：本节的 448×252 帧是 112 token/帧 ⇒ 8 帧 = 8×112+77 = <strong>973 token，逼近引擎 maxInputLen=1024</strong>，9 帧装不下；而基准里另有 40 段 5:4 视频（448×358→448×352）是 <strong>154 token/帧</strong>，<strong>6 帧就已占到 1015/1024、只剩 9 个 token</strong>（补测见图 2 下半）。AV 的 6–8 路相机正好卡在上限，若要每路多帧（视频）必须用更大 maxInputLen 重建引擎。③ prefill 随帧数增长更快（≈65 ms/帧），因为每帧带来 112 个 token 进 attention —— 所以多相机场景的瓶颈在 prefill 而非视觉编码器本身。</figcaption></figure>
+  <figure><img src="figures/vision_encoder.png" alt="vision encoder cost and multi-camera scaling"><figcaption><b>图 15 · 视觉编码器开销与多相机扩展性</b><br><b>横轴</b>：左=输入帧数(1/2/4/6)，右=输入帧数（视作每路相机 1 帧，含外推到 8 路）<br><b>竖轴</b>：左=首 token 延迟 TTFT (ms)，按「视觉编码器 / LLM prefill」堆叠；右=视觉编码器 GPU 时间 (ms)，红虚线=引擎 <code>maxInputLen=1024</code> 的硬上限<br><b>结果</b>：视觉编码器耗时随帧数<strong>严格线性</strong>——拟合 <strong>4.5 + 23.2 ms×帧</strong>（R²=0.997），每帧 112 个 image token（本节用的 448×252 帧被 processor 缩到 448×256，14×8=112；见图 2）；它占 TTFT 的 <strong>19.3% → 24.7%</strong>（1→6 帧）。6 帧 TTFT 593 ms（视觉 146 + prefill 446）。外推 8 路相机：视觉 ≈190 ms、TTFT ≈775 ms<br><b>分析</b>：① <strong>视觉编码器是被忽略的四分之一</strong>，且是唯一仍跑 fp16 的部件——量化它是明确的下一步收益点。② <strong>发现一个硬约束，且它取决于帧的长宽比</strong>：本节的 448×252 帧是 112 token/帧 ⇒ 8 帧 = 8×112+77 = <strong>973 token，逼近引擎 maxInputLen=1024</strong>，9 帧装不下；而基准里另有 40 段 5:4 视频（448×358→448×352）是 <strong>154 token/帧</strong>，<strong>6 帧就已占到 1015/1024、只剩 9 个 token</strong>（补测见图 2 下半）。AV 的 6–8 路相机正好卡在上限，若要每路多帧（视频）必须用更大 maxInputLen 重建引擎。③ prefill 随帧数增长更快（≈65 ms/帧），因为每帧带来 112 个 token 进 attention —— 所以多相机场景的瓶颈在 prefill 而非视觉编码器本身。</figcaption></figure>
   <div class="callout warn">
     <div class="t">INT8 视觉编码器：本地不可行（实测确认的约束）</div>
     <code>visual_build</code> <strong>没有精度参数</strong>（只有 <code>--onnxDir/--engineDir</code> 与 token 上限），视觉编码器精度完全由导出的 ONNX 决定，而 ModelOpt 的量化默认跳过了视觉编码器。⟹ <strong>要量化视觉编码器必须回云端重导 ONNX</strong>，本地无路可走。此项已排入待办，等凭据轮换后执行。<br>
@@ -263,9 +268,9 @@ footer a{color:var(--accent)}
   <ul>
     <li><strong>模型 / 权重</strong>：<a href="https://huggingface.co/nvidia/Cosmos-Reason2-8B" target="_blank" style="color:var(--accent)"><code>nvidia/Cosmos-Reason2-8B</code></a>（HuggingFace 门控，NVIDIA 预训练；我们<strong>只做推理量化，不训练/微调</strong>；revision 未 pin）。实测架构：36 层 · hidden 4096 · GQA 32/8 头 · RoPE 262144 · vocab 151936（<strong>Qwen3-VL-8B-Instruct</strong> 系 backbone）。</li>
     <li><strong>量化</strong>：NVIDIA ModelOpt 训练后量化(PTQ)。INT4 = AWQ(W4A16)、INT8 = SmoothQuant(W8A8)。<strong>校准集 = 工具默认的 <a href="https://huggingface.co/datasets/cnn_dailymail" target="_blank" style="color:var(--accent)">CNN/DailyMail 3.0.0</a> 前 512 篇 `article`（新闻文本、纯文本路径、非驾驶域</strong>——见讨论 caveat）。视觉编码器未量化（保 fp16）。</li>
-    <li><strong>数据</strong>：精度评测用<strong>官方 <a href="https://huggingface.co/datasets/nvidia/Cosmos-Reason1-Benchmark" target="_blank" style="color:var(--accent)">Cosmos-Reason1-Benchmark</a>（robovqa+robofail，n=210 选择题带标准答案）</strong>——视频采 6 帧(≤448px)作多图、三种精度同帧、算 MC 任务正确率+掉点(带 Wilson CI/McNemar)；另有 12 条手写 prompt 的 perplexity 作细粒度辅助。性能用 llm_bench 合成序列。</li>
+    <li><strong>数据</strong>：精度评测用<strong>官方 <a href="https://huggingface.co/datasets/nvidia/Cosmos-Reason1-Benchmark" target="_blank" style="color:var(--accent)">Cosmos-Reason1-Benchmark</a>（robovqa+robofail，n=210 选择题带标准答案）</strong>——视频采 6 帧(≤448px)作多图、三种精度同帧、算 MC 任务正确率+精度损失(带 Wilson CI/McNemar)；另有 12 条手写 prompt 的 perplexity 作细粒度辅助。性能用 llm_bench 合成序列。</li>
     <li><strong>设备 / 框架（实测版本）</strong>：<strong>Jetson AGX Orin Developer Kit</strong>（sm_87，统一内存 29GB，MAXN）· L4T R36.4.4 (JetPack 6.2) · CUDA 12.6.11 · TensorRT 10.7.0.23 · <strong>TensorRT-Edge-LLM v0.9.0</strong>@<code>1ac0f2b</code>。云端量化/参考：Kaggle 2× Tesla T4 (sm_75)。</li>
-    <li><strong>指标</strong>：延迟/吞吐 = llm_bench E2E（mean±std，warmup 3 + iter 10；prefill inputLen=512、decode pastKVLen=512）；功耗 = tegrastats 三轨之和；能效 = TPS ÷ W；掉点 = FP16 模型对输出的 teacher-forced perplexity + token 一致率（相对退化口径，非纯量化误差）。INT4 已重跑复现（在 run-to-run 噪声内一致）。</li>
+    <li><strong>指标</strong>：延迟/吞吐 = llm_bench E2E（mean±std，warmup 3 + iter 10；prefill inputLen=512、decode pastKVLen=512）；功耗 = tegrastats 三轨之和；能效 = TPS ÷ W；精度损失 = FP16 模型对输出的 teacher-forced perplexity + token 一致率（相对退化口径，非纯量化误差）。INT4 已重跑复现（在 run-to-run 噪声内一致）。</li>
   </ul>
   <p style="font-size:13px;color:var(--muted)">模型来源、数据集、指标定义与测法、校准集及影响的完整可复现细节见 <a href="https://github.com/ranpin/qwen-trajectory-prediction/blob/alpamayo-edge/alpamayo-edge/docs/METHODOLOGY.md" target="_blank" style="color:var(--accent)">docs/METHODOLOGY.md</a>。</p>
 
@@ -287,12 +292,12 @@ footer a{color:var(--accent)}
   <ul>
     <li><strong>可复用的边缘量化部署方法论</strong>——同套流程可把任意 TRTEdge 支持的 LLM/VLM 部署到任意 Jetson，并给出量化选型依据。</li>
     <li><strong>可实时查询的车载场景推理系统</strong>——喂驾驶图像 + 问题，~30 TPS @ ~40W 的边缘推理，可作感知理解 / 安全监控 / 可解释模块。</li>
-    <li><strong>完整的 INT4-vs-INT8 边缘权衡实证</strong>——延迟 / 吞吐 / 显存 / 功耗 / 能效 / 上下文扩展性 / 掉点全维度。</li>
+    <li><strong>完整的 INT4-vs-INT8 边缘权衡实证</strong>——延迟 / 吞吐 / 显存 / 功耗 / 能效 / 上下文扩展性 / 精度损失全维度。</li>
   </ul>
   <h3>诚实的边界</h3>
   <ul>
     <li><strong>输入长度只剩 0.9% 余量（事后才发现）</strong>：引擎 <code>maxInputLen=1024</code> 是构建时钉死的；n=210 里最长的一题实测 <strong>1015 token</strong>（40 段 5:4 视频是 154 token/帧，6 帧就 924），<strong>只剩 9 个 token</strong>。日志无截断告警、210 条全部返回，故已发布正确率不受影响，但当初没算这笔账；要加帧数或加长题干必须以更大 <code>maxInputLen</code> 重建引擎（见图 2）。</li>
-    <li><strong>基准范围</strong>：用 <strong>Cosmos-Reason1-Benchmark 的 robovqa+robofail（n=210，具身机器人推理，非驾驶）</strong>——这是 repo 内<strong>自带视频</strong>的全部；其余 3 子集(agibot/bridgev2/holoassist，共 300)仅有标注、视频需从外部源数据集下载匹配，官方 AV 子集未发布 → 全 510 需外部视频流水线(future work)。<strong>无 Cosmos-Reason2-Benchmark（不存在），故用同族的 R1-Benchmark 评测 R2 模型（标准做法）</strong>。视频按 6 帧@448 采样（非官方原生协议，绝对分不追求复现论文；三精度同帧→掉点可比）。</li>
+    <li><strong>基准范围</strong>：用 <strong>Cosmos-Reason1-Benchmark 的 robovqa+robofail（n=210，具身机器人推理，非驾驶）</strong>——这是 repo 内<strong>自带视频</strong>的全部；其余 3 子集(agibot/bridgev2/holoassist，共 300)仅有标注、视频需从外部源数据集下载匹配，官方 AV 子集未发布 → 全 510 需外部视频流水线(future work)。<strong>无 Cosmos-Reason2-Benchmark（不存在），故用同族的 R1-Benchmark 评测 R2 模型（标准做法）</strong>。视频按 6 帧@448 采样（非官方原生协议，绝对分不追求复现论文；三精度同帧→精度损失可比）。</li>
     <li><strong>FP16 只能在 64GB goat 跑</strong>：32GB dog 上 FP16 既 build OOM(55GB)、载入也 OOM(15GB 引擎+缓存到顶) → FP16 的 TTFT/TPOT 在 goat 测；INT4/INT8 两机 &lt;3% 已交叉复现，加速比取 goat 同机测量。</li>
     <li><strong>无轨迹预测</strong>：ADE/FDE vs CVM 属于 VLA 轨道（Alpamayo-R1-10B FP16），大工程，暂缓。</li>
     <li><strong>校准集</strong>：默认通用新闻(cnn_dailymail 512)。<strong>已做域内校准消融</strong>：域内小集反而使 INT8 暴跌(+244% ppl)→ 覆盖度/质量比域匹配更关键，默认选择得验证(消融含"域 vs 规模"confound)。</li>
